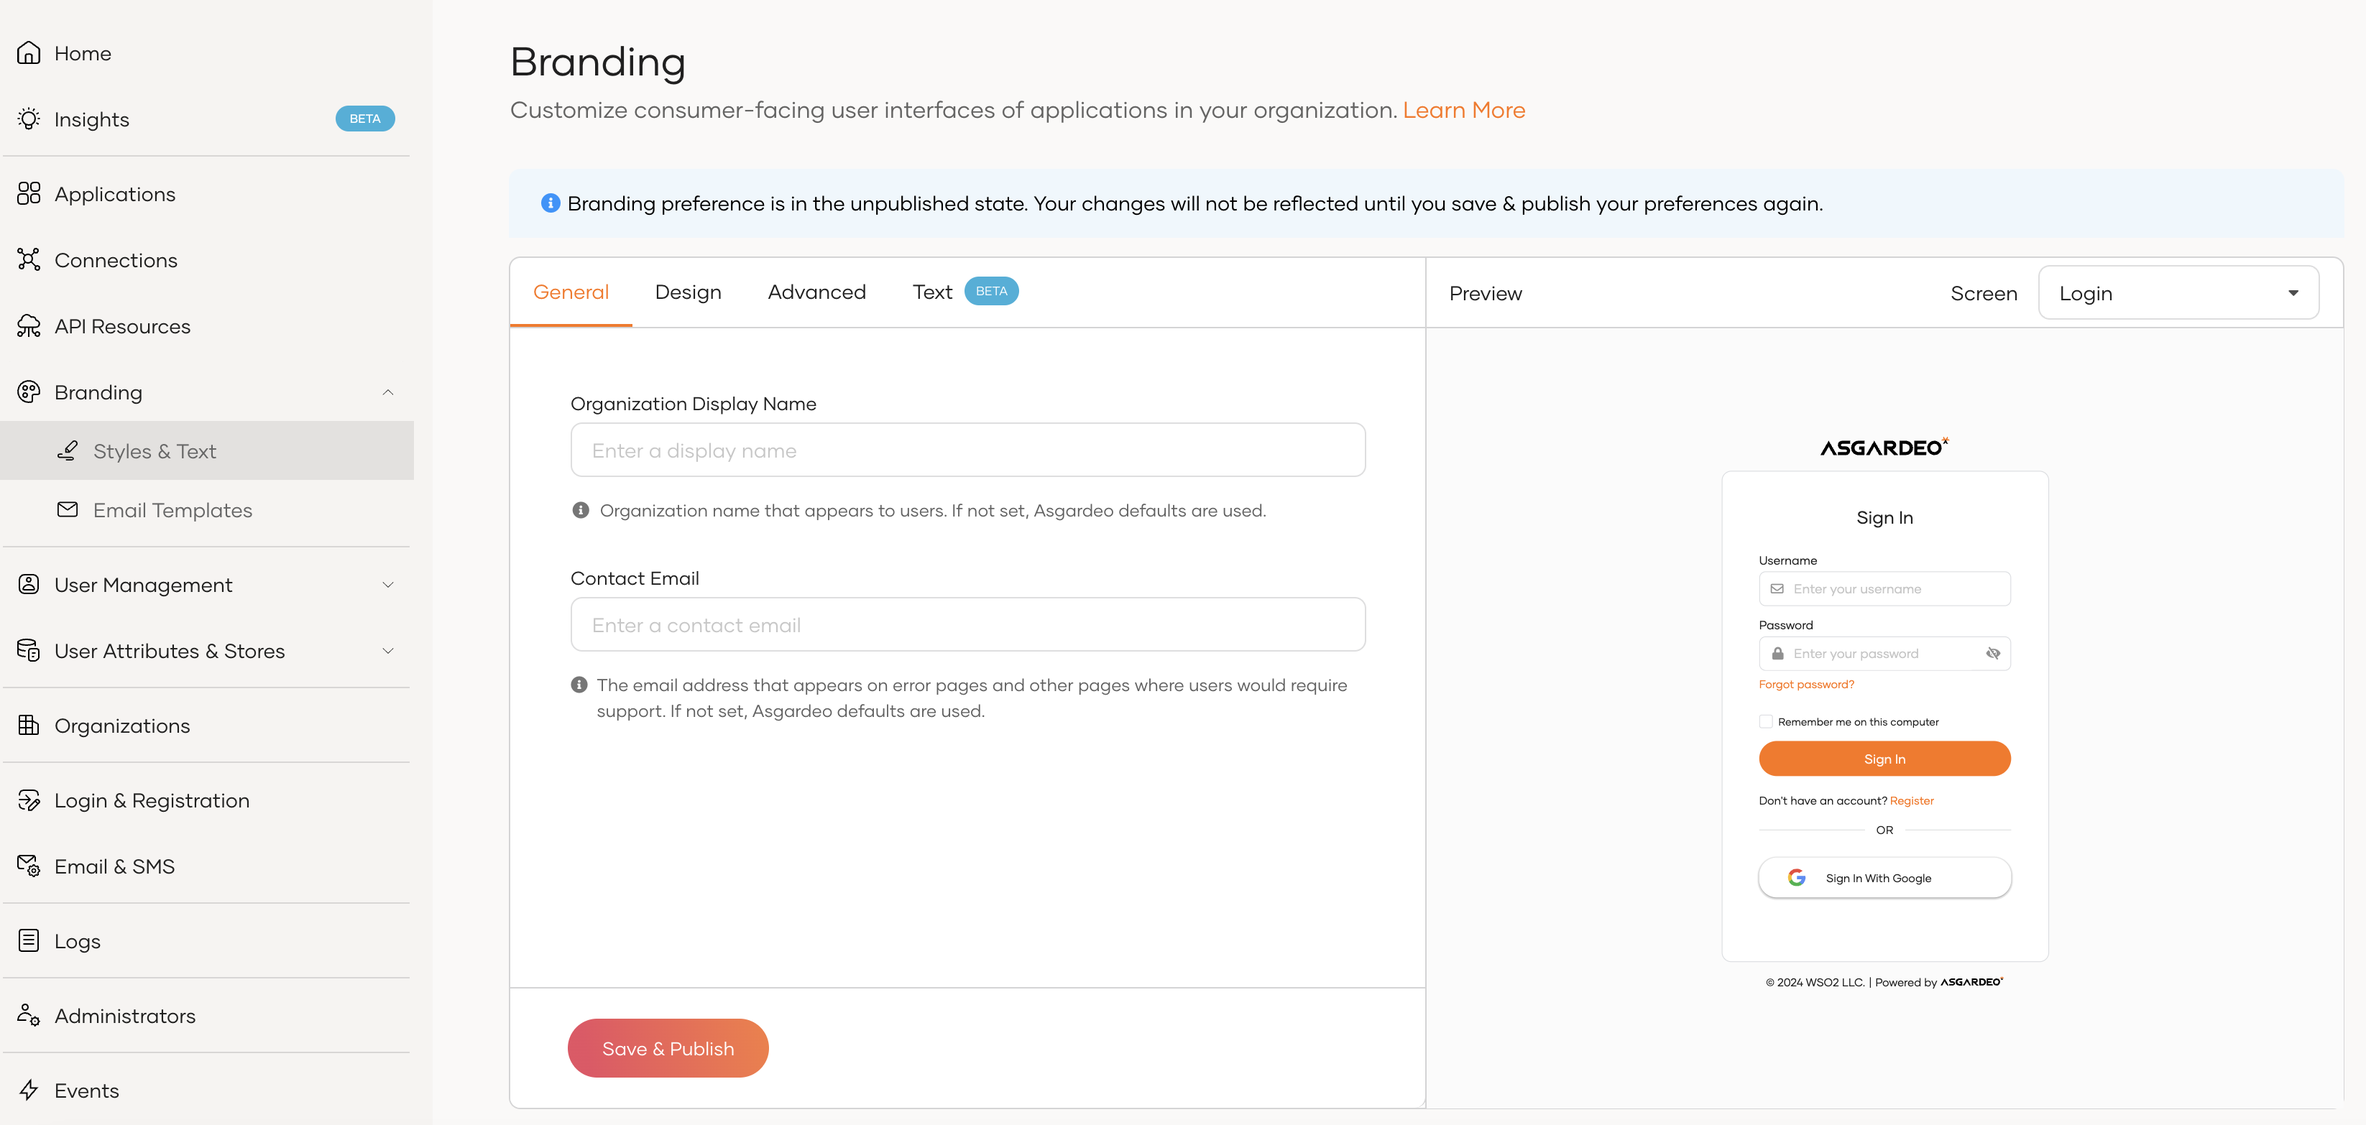
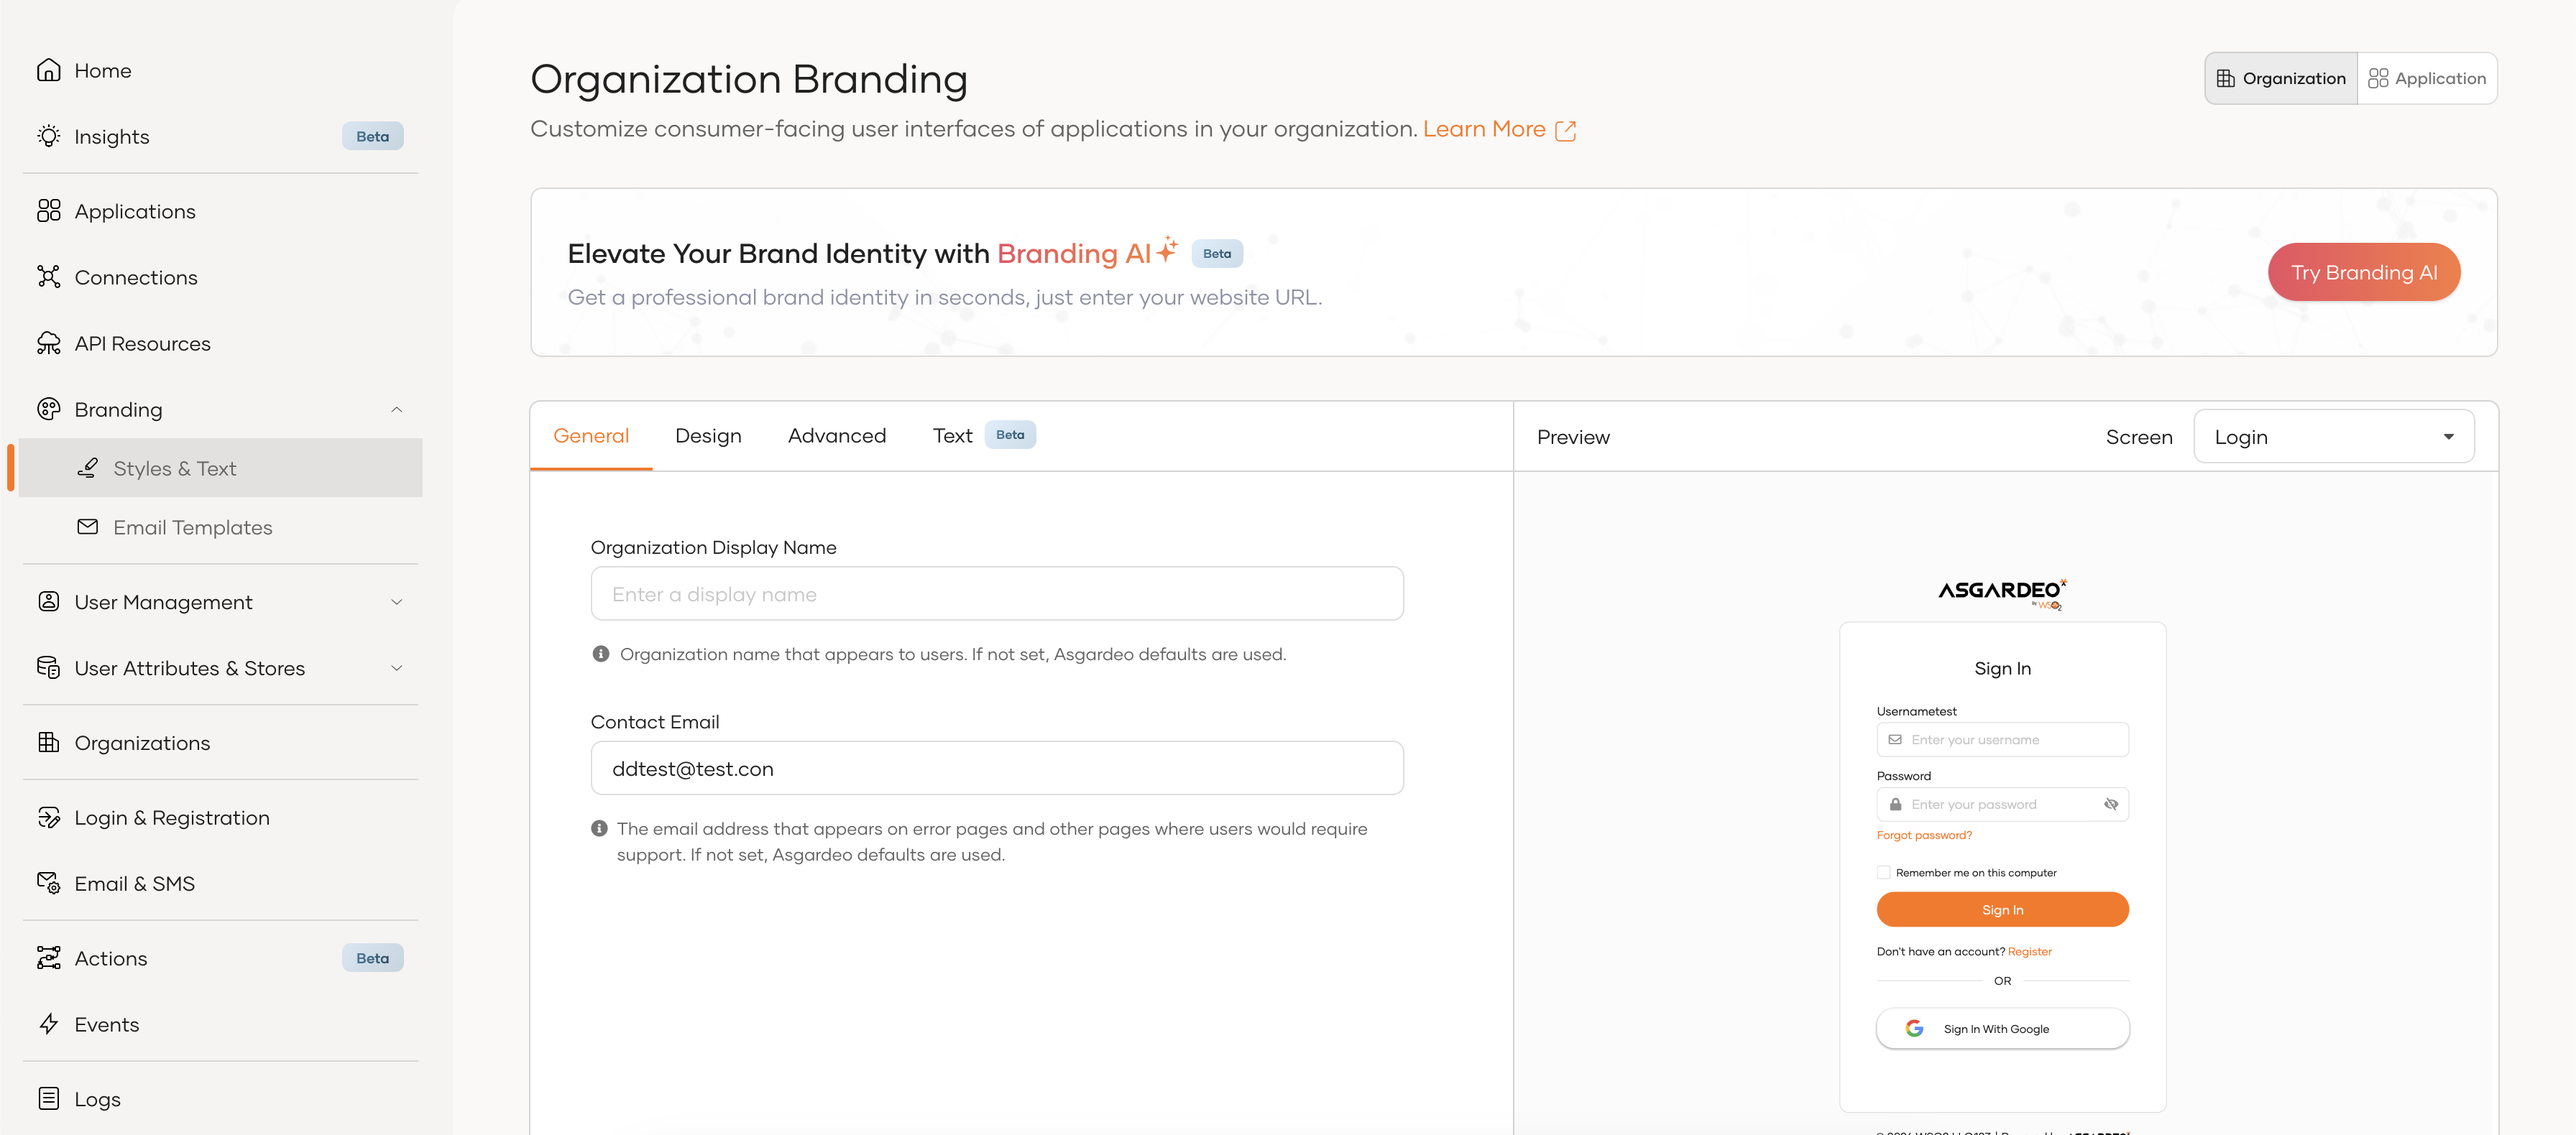
Add docs for App-wise Branding

diff --git a/en/includes/guides/branding/configure-ui-branding.md b/en/includes/guides/branding/configure-ui-branding.md
@@ -1,11 +1,21 @@
 # Configure UI branding
 
-You can customize the user interfaces (UIs) presented to your users during the login, sign-up, and account recovery flows, and on the My Account portal according to the theming guidelines of your organization.
+You can customize the user interfaces (UIs) displayed to your users during login, sign-up, account recovery flows, and the My Account portal to align with the theming guidelines of your organization or specific applications.
+
+In Asgardeo, you can configure UI branding at two levels:
+
+1. Organization-wide Branding: This applies to all applications under an organization by default.
+2. Application-specific Branding: You can now configure separate branding for individual applications. This overrides the organization-wide branding for that specific application, allowing greater flexibility in customizing the user experience for each app.
+
+By branding these interfaces, your users will experience a familiar and consistent look and feel that aligns with your organizational or application-specific themes.
 
 !!! note "UI Branding for B2B applications"
-    If you have created [organizations]({{base_path}}/guides/organization-management/manage-organizations/),note that you can configure separate UI branding for your organizations. If you have not configured UI branding for your organization, the UI branding of your root organization will be applied to the organization.
+    - If you have created [organizations]({{base_path}}/guides/organization-management/manage-organizations/), note that you can configure separate UI branding for your organizations. 
+    - If you have not configured UI branding for your organization, the UI branding of your root organization will be applied to the organization.
+    - If you configure application-specific branding, it will override the organization’s branding for that particular application.
+    - If no application-specific branding is set, branding for the shared app will be resolved in the following path (orange arrow path in figure) until a configured branding preference is found
 
-By branding these interfaces, users will get a familiar and consistent user experience.
+    ![{{ product_name }} branding path resolver]({{base_path}}/assets/img/guides/branding/generic-app-branding-resolver-path.png)
 
 !!! note
     See the complete list of [UI branding options](#ui-branding-preferences) currently available in {{ product_name }}.
@@ -14,15 +24,21 @@ By branding these interfaces, users will get a familiar and consistent user expe
 
 ## Update branding
 
-Follow the steps given below to configure the branding preferences for your organization.
+Follow the steps given below to configure the branding preferences for your organization or application.
 
-1. On the {{ product_name }}, go to **Branding** > **Styles & Text**.
+1. On the {{ product_name }}, go to **Branding** > **Styles & Text**. For application-specific branding, select the **Application** tab on the top right and select an application from the dropdown. 
 
     ![{{ product_name }} Console - Branding UI]({{base_path}}/assets/img/guides/branding/branding-console-ui.png){: width="800" style="display: block; margin: 0; border: 0.3px solid lightgrey;"}
+
+You can also navigate to the particular application’s branding page by going to the **Applications**** page > Selecting the application > **General** tab > Click on **Go to Application Branding**.
+
+   ![{{ product_name }} Console - App Branding UI]({{base_path}}/assets/img/guides/branding/app-branding-general.png){: width="800" style="display: block; margin: 0; border: 0.3px solid lightgrey;"}
+
 
 2. Update the [UI branding options](#ui-branding-preferences) in the **General**, **Design**, **Advanced**, and **Text** tabs.
 
     !!! note
+        - Text branding is currently not available for application-specific branding. You can still configure text branding at the organization level, and it will apply to all applications unless overridden by application-specific branding in other areas.
         - If you leave any of the branding preferences empty, {{ product_name }} defaults will be used.
         - The real-time preview will show you a sample view as you update the values.
 
@@ -51,7 +67,7 @@ When disabled, {{ product_name }}'s default branding will apply to the interface
 If you want to revert your branding preferences, scroll down to the **Danger Zone** and click **Revert to default**.
 
 !!! warning
-    Note that this permanently removes all the branding options that you have saved and the {{ product_name }} defaults will immediately apply.
+    Note that this permanently removes all the branding options that you have saved and the branding at the next available level (such as organization branding or {{ product_name }} defaults) will be applied.
 
 {{ asgardeo_help }}
 
@@ -77,6 +93,9 @@ Listed below are general branding preferences you can apply to the interfaces.
 ### Design preferences
 
 Listed below are the design changes you can apply to the user registration interface, login interfaces and My Account portal.
+
+!!! Note
+    My Account branding can currently be configured only in the organization branding level.
 
 #### Layout variations
 
@@ -675,4 +694,5 @@ Listed below are the text branding preferences you can apply to the screens in y
 </table>
 
 !!! note
-    Adding custom fields to the text preferences is not supported.
+    - Adding custom fields to the text preferences is not supported.
+    - Text branding is currently not available for application-specific branding.
